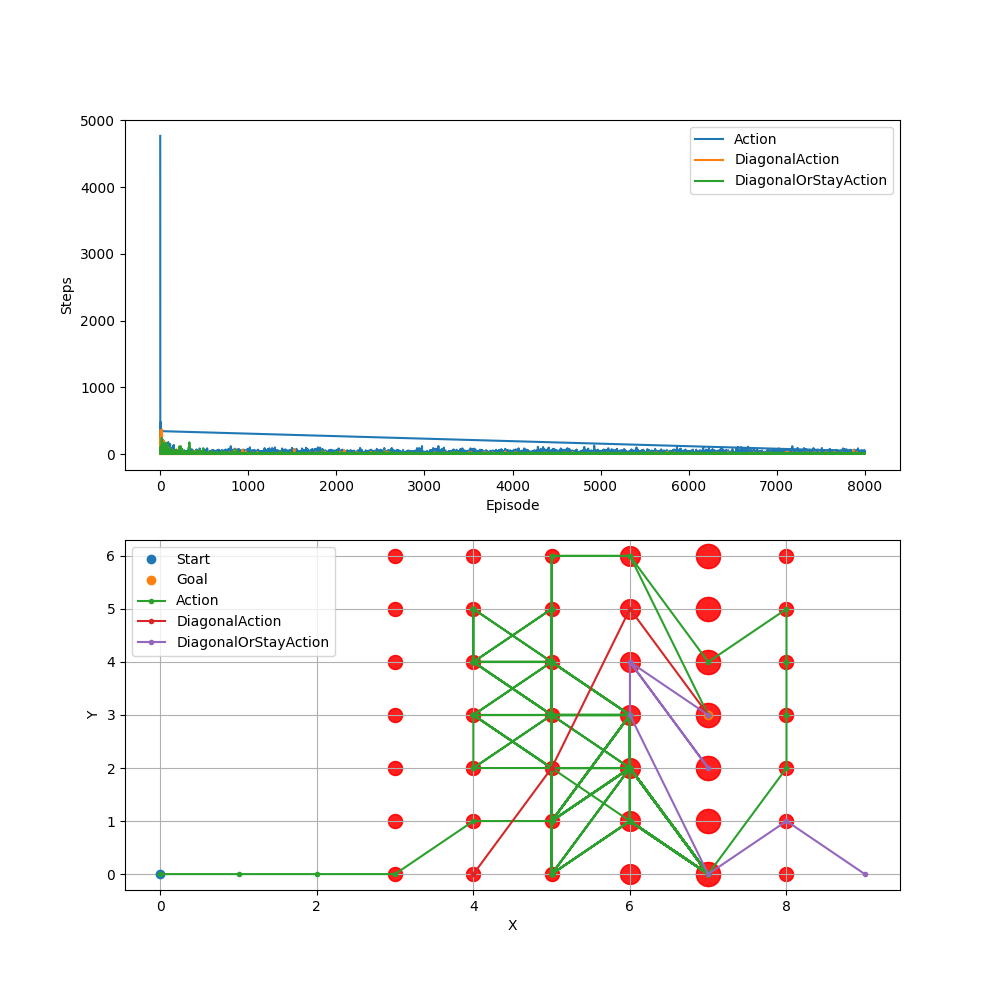
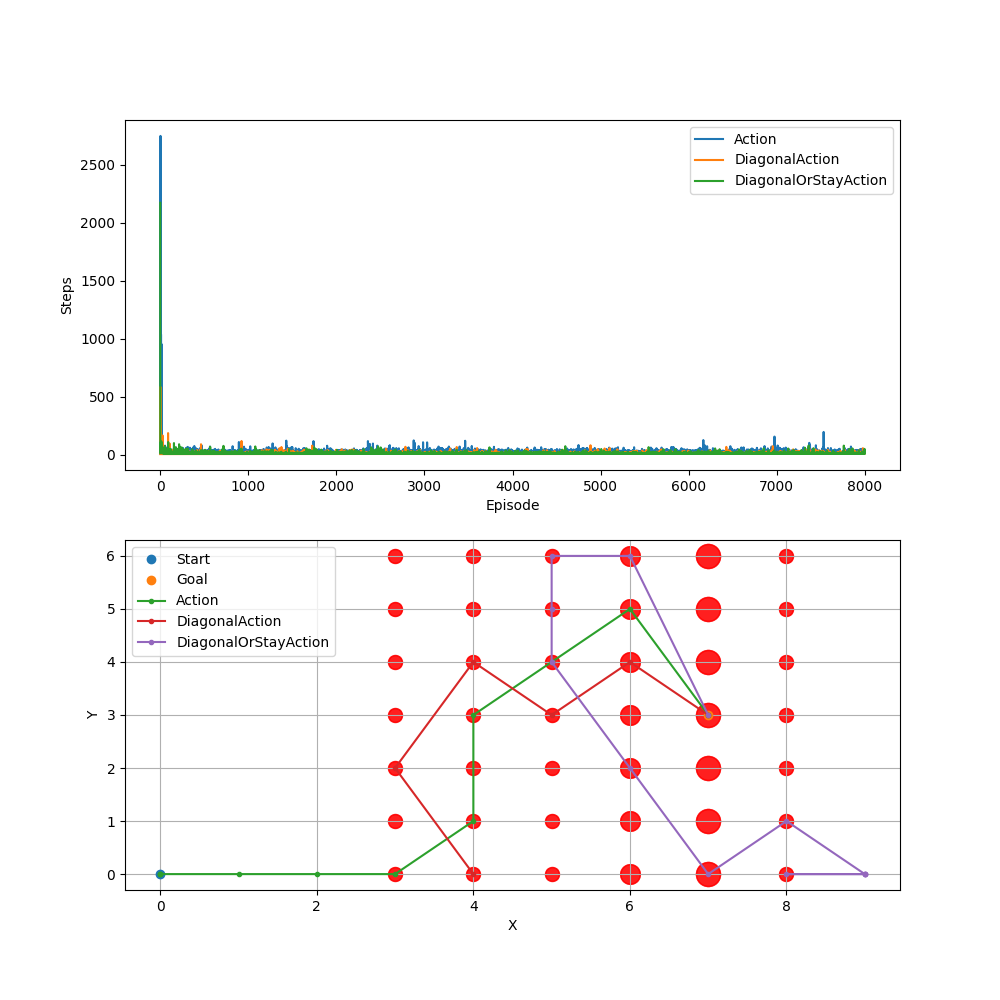
fix gamma

diff --git a/windy-gridworld.py b/windy-gridworld.py
@@ -289,7 +289,7 @@ if __name__ == "__main__":
     [environment.register_wind(State(8, y), Action.up, 1) for y in range(7)]
 
     episodes, steps = 8_000, 5_000
-    epsilon, alpha, gamma = 0.1, 0.5, 0.1
+    epsilon, alpha, gamma = 0.1, 0.5, 0.9
 
     figure = plt.figure(figsize=(10, 10))
 
